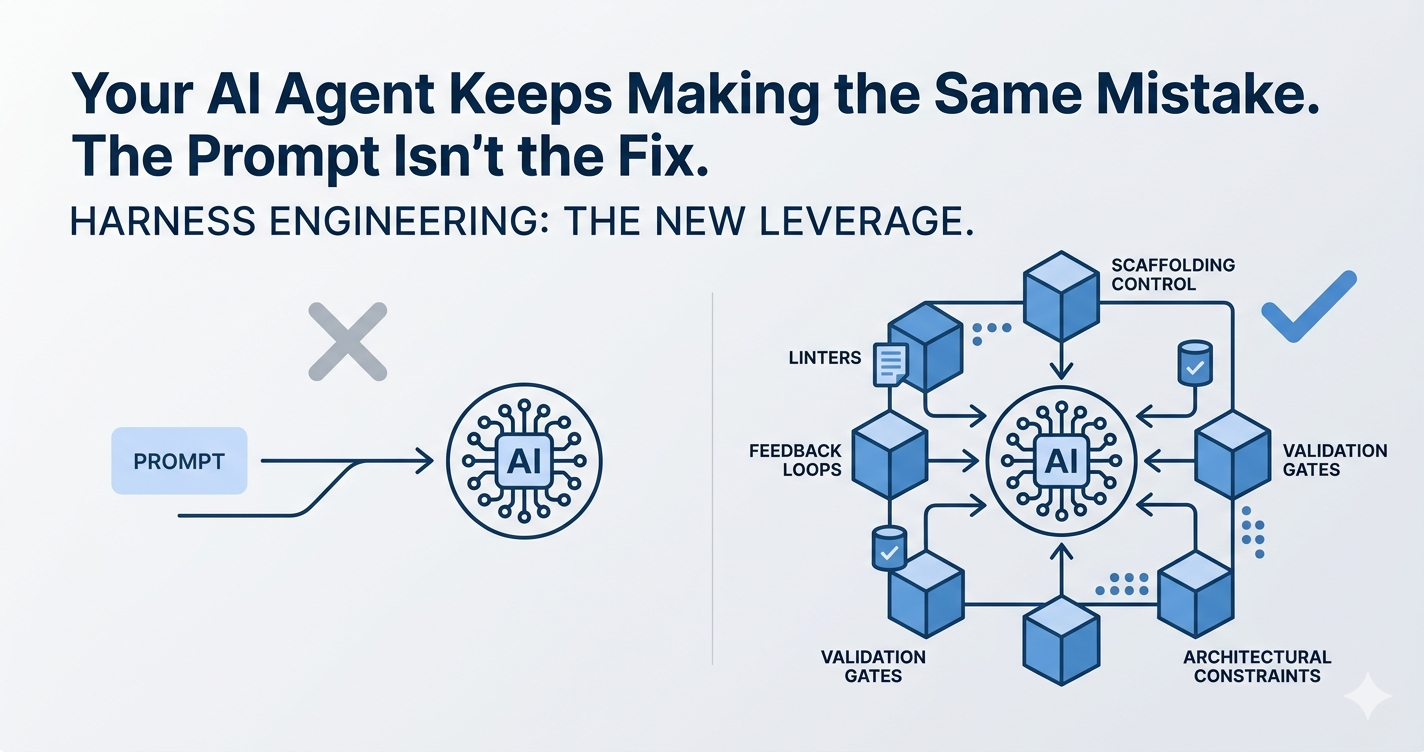
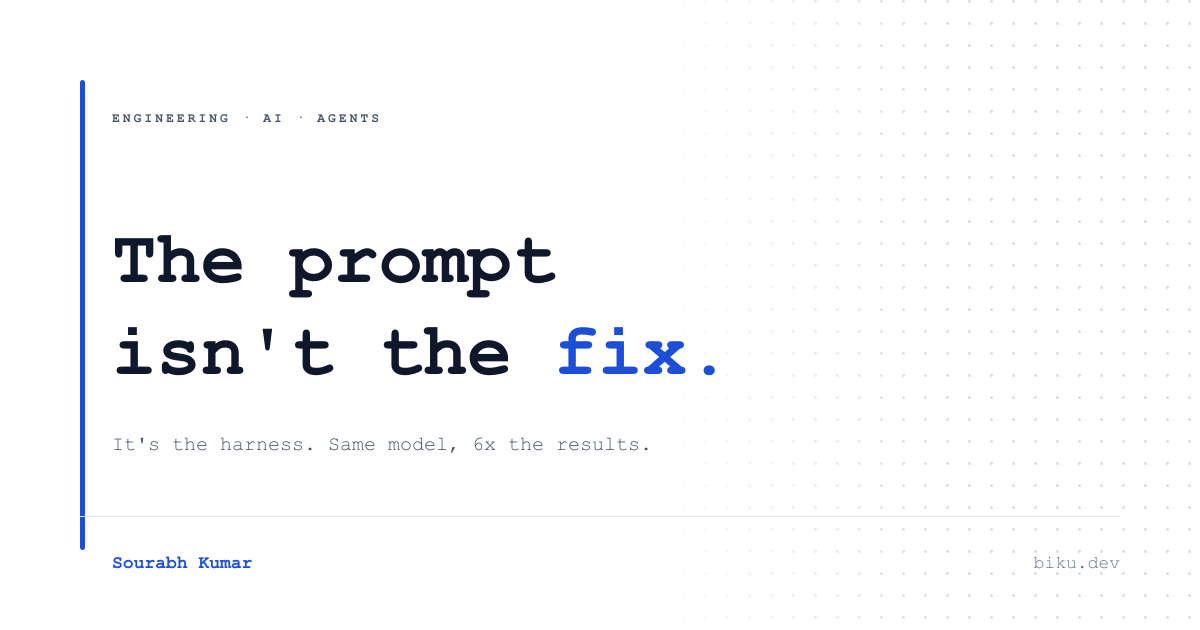
feat: update SVG graphics and enhance blog content for LLM quantization and AI agents

diff --git a/src/content/blog/llm-quantization-explained.md b/src/content/blog/llm-quantization-explained.md
@@ -65,14 +65,14 @@ Back to `llama3:8b-instruct-q4_K_M`. Now you can read it:
 
 So `q4_K_M` is the sweet-spot default most people recommend: 4-bit, mixed precision, medium variant. `q8_0` is 8-bit (higher quality, double the size). A plain `q4_0` is older-style uniform 4-bit, generally skip it in favor of the `_K_` versions.
 
-You'll also run into format names outside Ollama. These are the *methods* used to do the quantizing:
+You'll also run into format names outside Ollama. Your real question isn't "what is AWQ" but "which one do I download?" So here's the decision, not the dictionary:
 
-- **GGUF** is the format Ollama and llama.cpp use. One self-contained file, runs great on CPU or split between CPU and GPU. This is what those `q4_K_M`-style tags come from.
-- **AWQ** protects the most important weights (found by watching which ones drive the biggest activations) so 4-bit rounding doesn't damage them. The go-to for fast, quality-sensitive **GPU** serving.
-- **GPTQ** uses a small calibration dataset to round each layer in a way that keeps its *output* close to the original. Another strong GPU option.
-- **NF4** is a 4-bit format whose steps are spaced to match that bell-curve shape of weights. It's what QLoRA uses to fine-tune big models on consumer hardware.
+- **GGUF:** *Running locally on Ollama or llama.cpp? It's always this. Ignore the rest.* One self-contained file that runs on CPU or splits across CPU and GPU, and where those `q4_K_M`-style tags come from.
+- **AWQ:** *Serving on GPUs via vLLM or TGI and quality matters? Make this your default.* It protects the most important weights so 4-bit rounding doesn't damage the output.
+- **GPTQ:** *Also for GPU serving; reach for it when AWQ isn't published for the model you want.* It uses calibration data to round each layer so its output stays close to the original.
+- **NF4:** *Only relevant if you're fine-tuning, not just running.* It's the 4-bit format QLoRA uses to train big models on consumer hardware.
 
-For local use, you'll mostly live in GGUF land. The others matter once you're serving on GPUs.
+The short version: local means GGUF, GPU serving means AWQ (then GPTQ as fallback), fine-tuning means NF4. For most people reading this, it's GGUF and you never think about the others.
 
 ## How much quality do you really lose?
 
@@ -87,6 +87,12 @@ And here's the rule of thumb that should drive your downloads:
 
 A 70B model at `q4` will run circles around an 8B model at `q8`, even though they take up similar disk space. So the move is: pick the *largest* model your hardware can hold, then choose the quantization that makes it fit, not the other way around.
 
+## And yes, it's faster too
+
+Smaller weights don't just save space, they move through the system faster. On the same hardware, a 4-bit model usually loads quicker and generates tokens roughly 1.5–2x faster than its FP16 equivalent.
+
+The reason is worth knowing, because it's a common misconception: quantization doesn't reduce the *number* of calculations (the math operations are unchanged), it reduces how much *data* has to move. Since memory bandwidth, not raw compute, is the real bottleneck during inference, shuttling smaller numbers around is a genuine, measurable speedup, not just a smaller download.
+
 ## A practical download guide
 
 When you're staring at the Ollama or Hugging Face list, this is the decision in plain terms:
@@ -96,14 +102,13 @@ When you're staring at the Ollama or Hugging Face list, this is the decision in 
 - **Tight on memory?** Drop to `q4_K_S` or a smaller model. Below 4-bit (2–3 bit) quality starts falling off a cliff; only go there if you truly must.
 - **Maximize the model, not the bits.** Given a memory budget, a larger model quantized harder usually wins.
 
-## When to be careful
+## The mistake that will cost you days
 
-Quantization is nearly free for chat, coding help, summarization, and general tasks. But precision loss bites harder in a few places:
+Quantization is nearly free for chat, coding help, summarization, and most general tasks. But there are two places where aggressive quantization quietly breaks production systems, and this is the section to actually remember.
 
-- **High-stakes text** like legal, medical, and compliance, where the model occasionally dropping a clause or flipping a negation is a real liability. Lean toward `q8` or full precision here.
-- **Embedding models** for semantic search. They're unusually sensitive; a 4-bit embedding model produces subtly shifted vectors that quietly degrade retrieval in ways that are painful to debug. Keep these at high precision.
+**Never quantize embedding models for search or RAG.** This is the one that burns people. Embedding models are unusually sensitive to precision loss: a 4-bit version produces subtly shifted vectors, and that shift silently degrades retrieval. Nothing crashes. No error shows up. Your RAG pipeline just starts surfacing slightly-wrong chunks, and you can lose *days* digging through your prompts and chunking logic when the real culprit was the quantized embedding model. Keep embedding models at full precision. Always.
 
-One more honest caveat: quantization shrinks *memory*, not *compute*. The number of calculations stays the same; you're just moving smaller numbers around faster. Since memory bandwidth is usually the real bottleneck during inference, you still get a genuine speedup. It's just not magic.
+**Be conservative with high-stakes text.** For legal, medical, or compliance work, the model occasionally dropping a clause or flipping a negation isn't a cosmetic glitch, it's a liability. Lean toward `q8` or full precision, and validate carefully before you trust it.
 
 ## The one-paragraph takeaway
 
